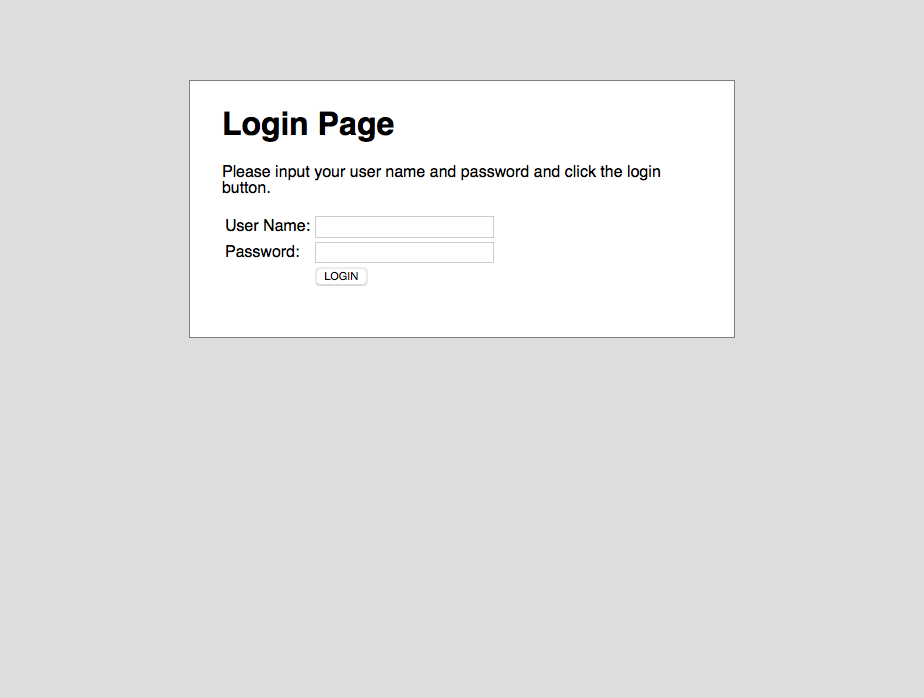
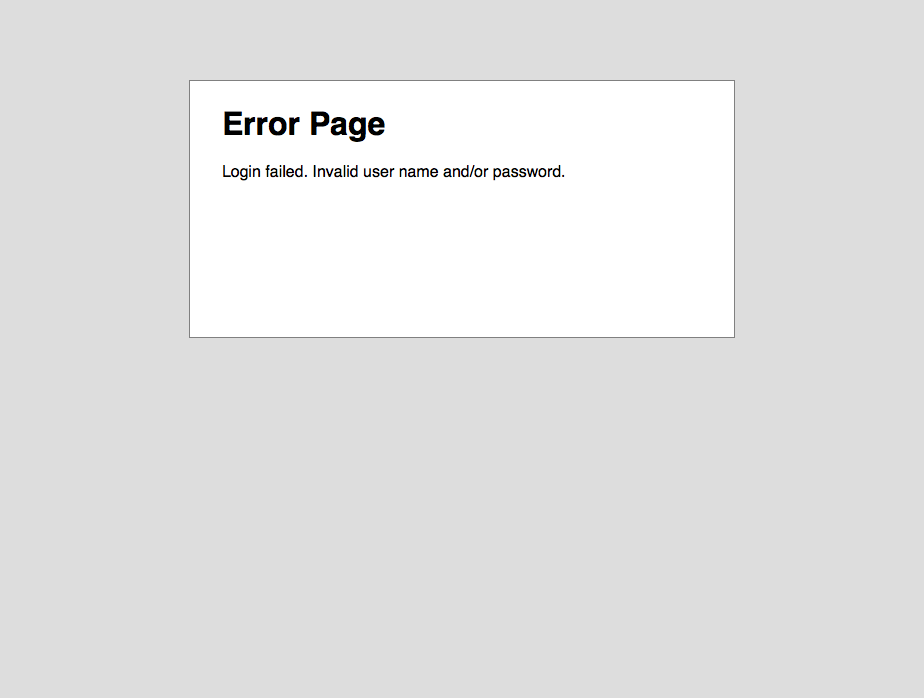
simple valid and invalid cases

Changed region(s): [[0.2424, 0.2407, 0.7273, 0.3911], [0.2424, 0.1504, 0.4242, 0.2106], [0.3333, 0.3911, 0.3939, 0.4212]]

diff --git a/log.html b/log.html
@@ -1678,28 +1678,28 @@ function stopPropagation(event) {
 window.output = {};
 </script>
 <script type="text/javascript">
-window.output["suite"] = [1,2,3,4,[],[1,0,4443],[],[[5,0,1,0,[],[1,94,4348],[[0,6,0,7,8,[1,94,3407],[],[[95,2,9]]],[0,10,0,11,12,[1,3502,189],[],[[3691,2,13]]],[0,14,0,15,16,[1,3691,113],[],[[3804,2,17]]],[0,18,0,19,20,[1,3804,356],[],[[3805,2,21]]],[0,22,0,23,24,[1,4161,281],[],[[4161,2,25]]]]]],[],[1,1,1,1]];
+window.output["suite"] = [1,2,3,4,[],[1,0,21013],[],[[5,0,1,0,[],[1,151,3888],[[0,6,0,7,8,[1,151,2480],[],[[151,2,9]]],[0,10,0,11,12,[1,2632,186],[],[[2818,2,13]]],[0,14,0,15,16,[1,2819,119],[],[[2938,2,17]]],[0,18,0,19,20,[1,2938,331],[],[[2939,2,21]]],[0,22,0,23,24,[1,3269,277],[],[[3270,2,25]]],[0,26,0,27,16,[1,3546,288],[],[[3546,2,28]]],[0,10,0,11,29,[1,3835,114],[],[[3949,2,30]]],[0,31,0,32,0,[1,3949,89],[],[]]]],[33,0,1,0,[],[1,4039,3786],[[0,6,0,7,8,[1,4040,3080],[],[[4040,2,9]]],[0,10,0,11,12,[1,7121,156],[],[[7277,2,13]]],[0,14,0,15,16,[1,7278,91],[],[[7369,2,17]]],[0,26,0,27,16,[1,7370,257],[],[[7370,2,28]]],[0,10,0,11,34,[1,7628,117],[],[[7745,2,35]]],[0,31,0,32,0,[1,7745,79],[],[]]]],[36,0,1,0,[],[1,7825,5135],[[0,6,0,7,8,[1,7826,4082],[],[[7827,2,9]]],[0,10,0,11,12,[1,11909,153],[],[[12061,2,13]]],[0,14,0,15,16,[1,12063,93],[],[[12156,2,17]]],[0,18,0,19,37,[1,12156,253],[],[[12157,2,38]]],[0,26,0,27,16,[1,12411,328],[],[[12413,2,28]]],[0,10,0,11,34,[1,12739,127],[],[[12865,2,35]]],[0,31,0,32,0,[1,12866,94],[],[]]]],[39,0,1,0,[],[1,12961,4125],[[0,6,0,7,8,[1,12962,3074],[],[[12963,2,9]]],[0,10,0,11,12,[1,16037,156],[],[[16193,2,13]]],[0,14,0,15,16,[1,16193,96],[],[[16289,2,17]]],[0,18,0,19,24,[1,16289,254],[],[[16289,2,40]]],[0,26,0,27,16,[1,16543,320],[],[[16543,2,28]]],[0,10,0,11,34,[1,16864,133],[],[[16997,2,35]]],[0,31,0,32,0,[1,16998,87],[],[]]]],[41,0,1,0,[],[1,17086,3926],[[0,6,0,7,8,[1,17087,2529],[],[[17088,2,9]]],[0,10,0,11,12,[1,19618,178],[],[[19795,2,13]]],[0,14,0,15,16,[1,19796,118],[],[[19914,2,17]]],[0,18,0,19,37,[1,19915,347],[],[[19915,2,38]]],[0,18,0,19,42,[1,20263,252],[],[[20264,2,43]]],[0,26,0,27,16,[1,20516,281],[],[[20516,2,28]]],[0,10,0,11,34,[1,20798,124],[],[[20922,2,35]]],[0,31,0,32,0,[1,20922,89],[],[]]]]],[],[5,5,5,5]];
 </script>
 <script type="text/javascript">
 window.output["strings"] = [];
 </script>
 <script type="text/javascript">
-window.output["strings"] = window.output["strings"].concat(["*","*Valid Login","*/Users/Pondd/Workspace/robot/valid_login.txt","*valid_login.txt","*<p>This is a valid login\x3c/p>","*Valid Case","*Selenium2Library.Open Browser","*<p>Opens a new browser instance to given URL.\x3c/p>","*<a href=\"http://localhost:7272/\">http://localhost:7272/\x3c/a>","*Opening browser 'firefox' to base url '<a href=\"http://localhost:7272/\">http://localhost:7272/\x3c/a>'","*Selenium2Library.Page Should Contain","*<p>Verifies that current page contains `text`.\x3c/p>","*Login Page","*Current page contains text 'Login Page'.","*Selenium2Library.Page Should Contain Button","*<p>Verifies button identified by `locator` is found from current page.\x3c/p>","*LOGIN","*Current page contains input 'LOGIN'.","*Selenium2Library.Input Text","*<p>Types the given `text` into text field identified by `locator`.\x3c/p>","*identifier= username_field, demo","*Typing text 'demo' into text field 'identifier= username_field'","*Selenium2Library.Input Password","*<p>Types the given password into text field identified by `locator`.\x3c/p>","*identifier= password_field, mode","*Typing password into text field 'identifier= password_field'"]);
+window.output["strings"] = window.output["strings"].concat(["*","*Valid Login","*/Users/Pondd/Workspace/robot/valid_login.txt","*valid_login.txt","*<p>This is a valid login\x3c/p>","*Valid Case","*Selenium2Library.Open Browser","*<p>Opens a new browser instance to given URL.\x3c/p>","*<a href=\"http://localhost:7272/\">http://localhost:7272/\x3c/a>","*Opening browser 'firefox' to base url '<a href=\"http://localhost:7272/\">http://localhost:7272/\x3c/a>'","*Selenium2Library.Page Should Contain","*<p>Verifies that current page contains `text`.\x3c/p>","*Login Page","*Current page contains text 'Login Page'.","*Selenium2Library.Page Should Contain Button","*<p>Verifies button identified by `locator` is found from current page.\x3c/p>","*LOGIN","*Current page contains input 'LOGIN'.","*Selenium2Library.Input Text","*<p>Types the given `text` into text field identified by `locator`.\x3c/p>","*identifier= username_field, demo","*Typing text 'demo' into text field 'identifier= username_field'","*Selenium2Library.Input Password","*<p>Types the given password into text field identified by `locator`.\x3c/p>","*identifier= password_field, mode","*Typing password into text field 'identifier= password_field'","*Selenium2Library.Click Button","*<p>Clicks a button identified by `locator`.\x3c/p>","*Clicking button 'LOGIN'.","*Login succeeded","*Current page contains text 'Login succeeded'.","*Selenium2Library.Close Browser","*<p>Closes the current browser.\x3c/p>","*Invalid Case # 1: No Username No Password","*Error Page","*Current page contains text 'Error Page'.","*Invalid Case # 2: Wrong Username No Password","*identifier= username_field, pondd","*Typing text 'pondd' into text field 'identifier= username_field'","*Invalid Case # 3: No Username Wrong Password","*Typing text 'mode' into text field 'identifier= password_field'","*Invalid Case # 4: Wrong Username Wrong Password","*identifier= password_field, pondd","*Typing text 'pondd' into text field 'identifier= password_field'"]);
 </script>
 <script type="text/javascript">
-window.output["generatedTimestamp"] = "20150421 11:15:59 GMT +07:00";
+window.output["generatedTimestamp"] = "20150421 11:32:32 GMT +07:00";
 </script>
 <script type="text/javascript">
 window.output["errors"] = [];
 </script>
 <script type="text/javascript">
-window.output["stats"] = [[{"elapsed":"00:00:04","fail":0,"label":"Critical Tests","pass":1},{"elapsed":"00:00:04","fail":0,"label":"All Tests","pass":1}],[],[{"elapsed":"00:00:04","fail":0,"id":"s1","label":"Valid Login","name":"Valid Login","pass":1}]];
+window.output["stats"] = [[{"elapsed":"00:00:21","fail":0,"label":"Critical Tests","pass":5},{"elapsed":"00:00:21","fail":0,"label":"All Tests","pass":5}],[],[{"elapsed":"00:00:21","fail":0,"id":"s1","label":"Valid Login","name":"Valid Login","pass":5}]];
 </script>
 <script type="text/javascript">
-window.output["generatedMillis"] = 3722;
+window.output["generatedMillis"] = 20393;
 </script>
 <script type="text/javascript">
-window.output["baseMillis"] = 1429589755278;
+window.output["baseMillis"] = 1429590731607;
 </script>
 <script type="text/javascript">
 window.settings = {"defaultLevel":"INFO","minLevel":"INFO","reportURL":"report.html","splitLogBase":"log","title":""};

diff --git a/report.html b/report.html
@@ -1523,25 +1523,25 @@ storage = function () {
 window.output = {};
 </script>
 <script type="text/javascript">
-window.output["suite"] = [1,2,3,4,[],[1,0,4443],[],[[5,0,1,0,[],[1,94,4348],[]]],[],[1,1,1,1]];
+window.output["suite"] = [1,2,3,4,[],[1,0,21013],[],[[5,0,1,0,[],[1,151,3888],[]],[6,0,1,0,[],[1,4039,3786],[]],[7,0,1,0,[],[1,7825,5135],[]],[8,0,1,0,[],[1,12961,4125],[]],[9,0,1,0,[],[1,17086,3926],[]]],[],[5,5,5,5]];
 </script>
 <script type="text/javascript">
 window.output["strings"] = [];
 </script>
 <script type="text/javascript">
-window.output["strings"] = window.output["strings"].concat(["*","*Valid Login","*/Users/Pondd/Workspace/robot/valid_login.txt","*valid_login.txt","*<p>This is a valid login\x3c/p>","*Valid Case"]);
+window.output["strings"] = window.output["strings"].concat(["*","*Valid Login","*/Users/Pondd/Workspace/robot/valid_login.txt","*valid_login.txt","*<p>This is a valid login\x3c/p>","*Valid Case","*Invalid Case # 1: No Username No Password","*Invalid Case # 2: Wrong Username No Password","*Invalid Case # 3: No Username Wrong Password","*Invalid Case # 4: Wrong Username Wrong Password"]);
 </script>
 <script type="text/javascript">
-window.output["generatedTimestamp"] = "20150421 11:15:59 GMT +07:00";
+window.output["generatedTimestamp"] = "20150421 11:32:32 GMT +07:00";
 </script>
 <script type="text/javascript">
-window.output["stats"] = [[{"elapsed":"00:00:04","fail":0,"label":"Critical Tests","pass":1},{"elapsed":"00:00:04","fail":0,"label":"All Tests","pass":1}],[],[{"elapsed":"00:00:04","fail":0,"id":"s1","label":"Valid Login","name":"Valid Login","pass":1}]];
+window.output["stats"] = [[{"elapsed":"00:00:21","fail":0,"label":"Critical Tests","pass":5},{"elapsed":"00:00:21","fail":0,"label":"All Tests","pass":5}],[],[{"elapsed":"00:00:21","fail":0,"id":"s1","label":"Valid Login","name":"Valid Login","pass":5}]];
 </script>
 <script type="text/javascript">
-window.output["generatedMillis"] = 3722;
+window.output["generatedMillis"] = 20393;
 </script>
 <script type="text/javascript">
-window.output["baseMillis"] = 1429589755278;
+window.output["baseMillis"] = 1429590731607;
 </script>
 <script type="text/javascript">
 window.settings = {"background":{"fail":"#FF3333","nonCriticalFail":"#99FF66","pass":"#99FF66"},"logURL":"log.html","title":""};
